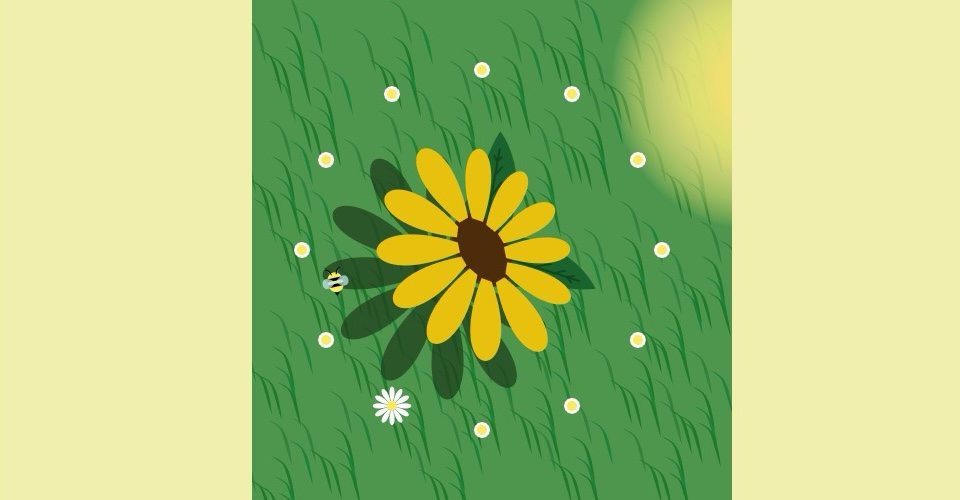
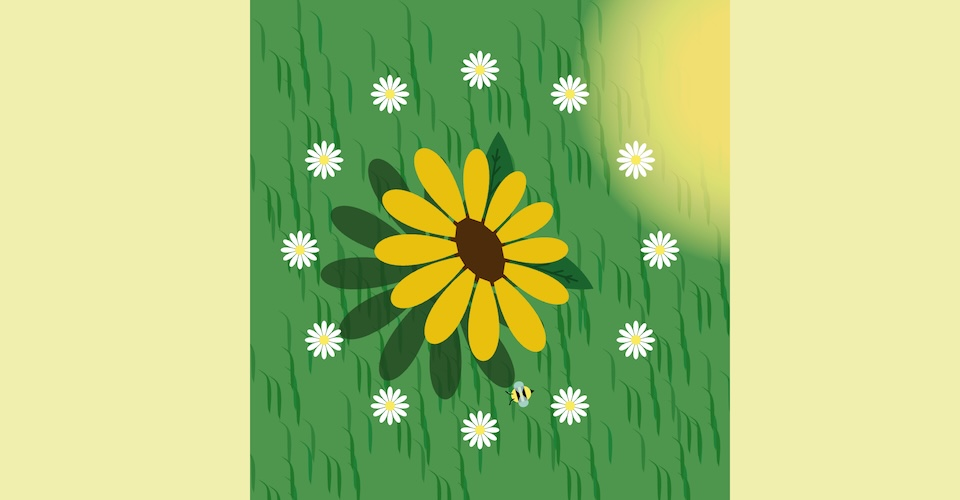
Sun(flower) Dial

diff --git a/README.md b/README.md
@@ -50,13 +50,16 @@ To make the alarm more impactful, I increased the size of the sun when the alarm
 
 To more accurately represent how the sunflower's shadow changes over the course of the day, I added maps within if statements to lengthen the shadow between 6:00 and 12:00, then shhorten it between 12:00 and 18:00. I explored making the lengthening effect more dramatic, however this altered the ratio between the petal shadows' length and width. So, in addition to lengthening the shadows, I also scaled them up and down slightly which didn't impact the ratio too much.
 
+<img src = "/assets/largeShadow.png" alt = "Largest lengthened and scaled shadow" width = 600>
+
+
 For the seconds, I added a bee which flies around in a circle showing the clock’s seconds. I have used random number to create a buzzing effect. For the bee’s motion I had initially mapped obj.seconds, but later created a map with exact seconds to create a smoother more natural motion for the bee. 
 
 To determine the location of the 12 daisies, I had tried to use a for loop. However, because I was often translating (0, 0) and rotating around it, the coordinate system was mixed up. So, I used trigonometry to find the co ordinates and added them into an array to place the daisies individually.
 
 For the daisy shapes, I used a for loop the petals. However, when animating the petals for a blooming effect, the for loop would continue to draw resulting in a bug where one petal would continue to grow.
 
-<img src = "/assets/petalBug.jpg" alt = "Bloominng petal length bug" width = 600>
+<img src = "/assets/petalBug.png" alt = "Blooming petal length bug" width = 600>
 
 Adding an if statement and condition to only increase the petal’s length when it was not fully bloomed fixed this bug. 
 
@@ -83,7 +86,7 @@ shakeY = 0;
 translate(x + shakeX, y + shakeY); // daisy centre at (x, y)
 ```
 
-A design choice I have made is to include padding on the right and left sides of the canvas to create a square frame around the clock. Because of the smaller scale of the clock’s elements, the tighter framing reduces the empty space thus highlighting the clock itself. The padding was white to begin with but I later changed it to a light yello shade to make the clock more cohesive
+A design choice I have made is to include padding on the right and left sides of the canvas to create a square frame around the clock. Because of the smaller scale of the clock’s elements, the tighter framing reduces the empty space thus highlighting the clock itself. The padding was white to begin with but I later changed it to a light yello shade to make the clock more cohesive.
 <img src = "/assets/withoutPadding.png" alt = "Clock without padding" width = 600>
 <img src = "/assets/withPadding.png" alt = "Clock with padding" width = 600>
 <img src = "/assets/yellowPadding.png" alt = "Clock with padding" width = 600>
